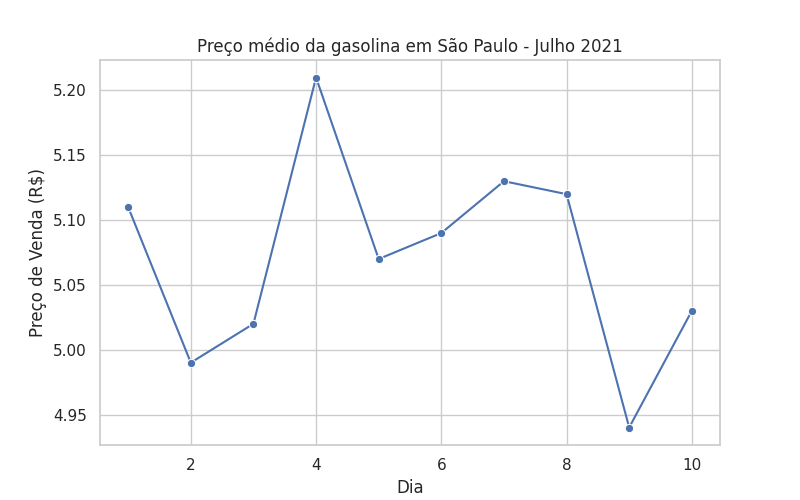
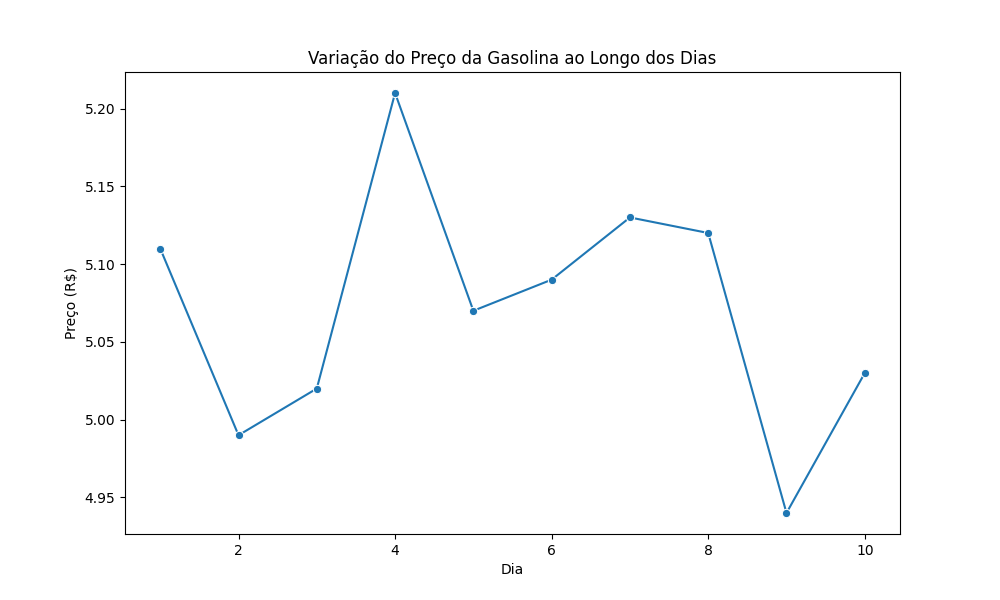
Atualização do gráfico da gasolina

diff --git a/gasolina.py b/gasolina.py
@@ -1,13 +1,19 @@
 import pandas as pd
-import seaborn as sns
 import matplotlib.pyplot as plt
+import seaborn as sns
 
 df = pd.read_csv('gasolina.csv')
-sns.set(style='whitegrid')
-plt.figure(figsize=(8, 5))
-sns.lineplot(x='dia', y='venda', data=df, marker='o')
-plt.title('Preço médio da gasolina em São Paulo - Julho 2021')
+
+plt.figure(figsize=(10, 6))
+sns.lineplot(data=df, x='dia', y='venda', marker='o')
+
+# Adicionar título e rótulos
+plt.title('Variação do Preço da Gasolina ao Longo dos Dias')
 plt.xlabel('Dia')
-plt.ylabel('Preço de Venda (R$)')
+plt.ylabel('Preço (R$)')
+
+# Salvar o gráfico como imagem
 plt.savefig('gasolina.png')
-print(gasolina.png)
+
+# Exibir o gráfico
+plt.show()
